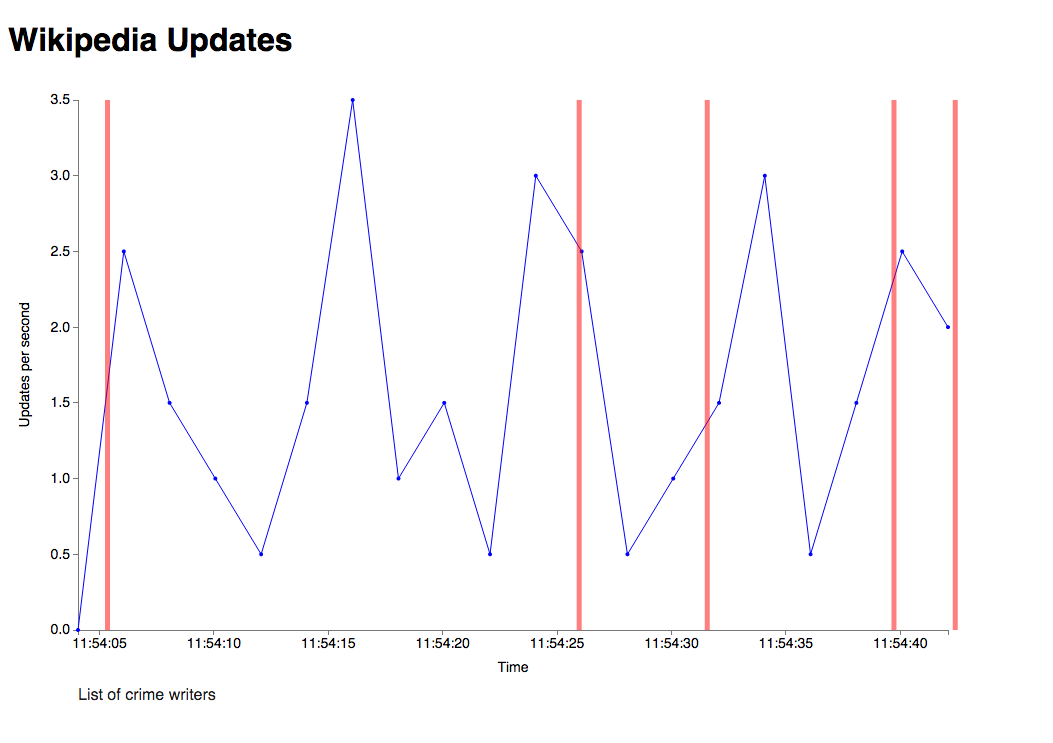
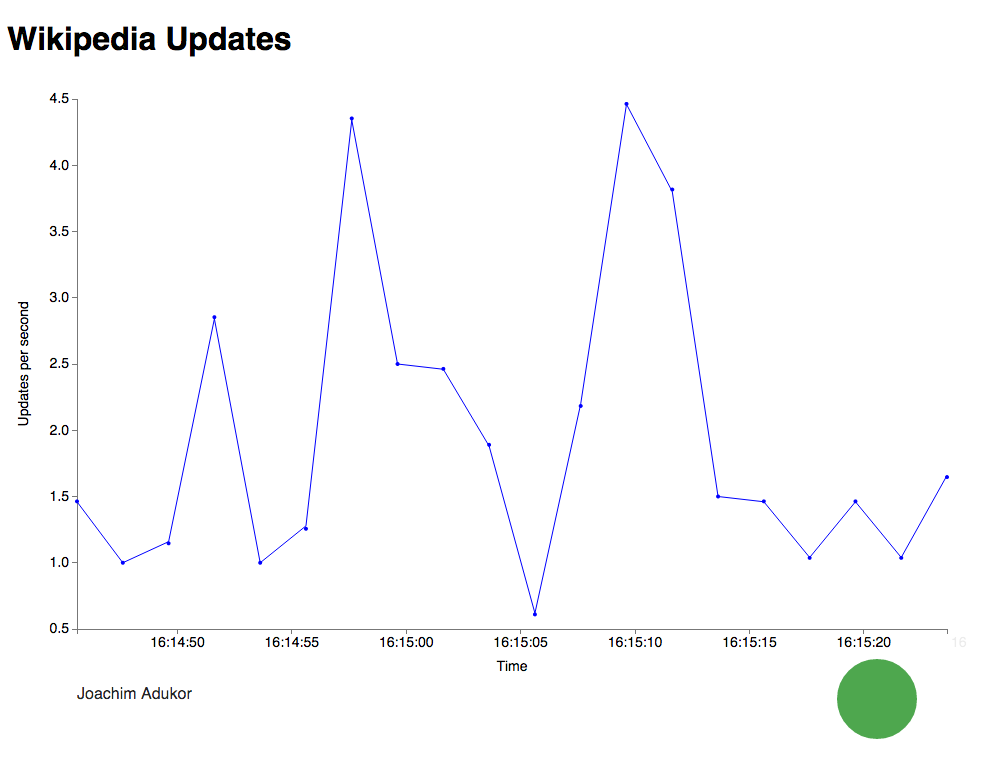
Updates code so that we display new users in a different way
The line annotations looked a bit naff, and it didn't seem worth the
effort in trying to make that kind of annotation look nicer - it felt like
it would be trying to force D3 to do something it's not designed for.
Instead, I now just fade in a circle below the chart to indicate a new
user event.

diff --git a/dgorst/_posts/2014-07-18-frp-with-bacon-and-d3.md b/dgorst/_posts/2014-07-18-frp-with-bacon-and-d3.md
@@ -139,7 +139,6 @@ As you can see, our HTML page is fairly minimal. It just contains the SVG elemen
 
 {% highlight javascript %}
 var updatesOverTime = [];
-var newUserTimes = [];
 
 var width = 960,
     height = 600,
@@ -218,19 +217,12 @@ Now that we have a line chart on our page, we need to define a function to updat
 {% highlight javascript %}
 var updateTransitionDuration = 550;
 
-function update(updates, newUsers) {
+function update(updates, newUser) {
     // Update the ranges of the chart to reflect the new data
     if (updates.length > 0)   {
         xRange.domain(d3.extent(updates, function(d) { return d.x; }));
         yRange.domain([d3.min(updates, function(d) { return d.y; }), 
-                        d3.max(updates, function(d) { return d.y; })]);
-    }
-    
-    // If the first new user event is now off the chart, remove it
-    var firstNewUserTime = newUsers[0];
-    var xAxisMin = xRange.domain()[0];
-    if (firstNewUserTime < xAxisMin) {
-        newUsers.shift();
+                       d3.max(updates, function(d) { return d.y; })]);
     }
     
     // Update the line series on the chart
@@ -261,34 +253,34 @@ function update(updates, newUsers) {
         .attr("cy", function(d) { return yRange(d.y); });
     
     var pointsExit = points.exit()
-        .transition()
-        .duration(updateTransitionDuration)
+        .transition().duration(updateTransitionDuration)
         .remove();
     
-    // For any new user events, render a translucent red line on the chart
-    var newUserLines = svg.selectAll("rect").data(newUsers);
-    var newUsersEnter = newUserLines.enter().append("rect")
-        .attr("width", 5)
-        .attr("fill-opacity", 1e-6)
-        .attr("fill", "red");
-    
-    var newUsersUpdate = newUserLines
+    var newUserIndicator = svg.selectAll("circle.new-user").data(newUser);
+    newUserIndicator.enter().append("circle")
+        .attr("class", "new-user")
+        .attr("r", 40)
+        .attr("fill", "green")
+        .attr("cx", width - margins.right - margins.left)
+        .attr("cy", height + 20)
+        .attr("opacity", 1e-6)
         .transition()
         .duration(updateTransitionDuration)
-        .attr("x", function(d) { return xRange(d); })
-        .attr("y", margins.top)
-        .attr("height", height - margins.bottom - margins.top)
-        .attr("fill-opacity", 0.5);
+        .attr("opacity", 0.75);
     
-    var newUsersExit = newUserLines.exit()
-        .transition().duration(updateTransitionDuration)    
+    newUserIndicator.exit()
+        .transition()
+        .duration(updateTransitionDuration)
+        .attr("cx", width - margins.right - margins.left)
+        .attr("cy", height + 20)
+        .attr("opacity", 1e-6)
         .remove();
 }
 {% endhighlight %}
 
-In the update method, we refresh the ranges of our axes to reflect the ranges of the new data. When we receive any new user events, we annotate the chart with a vertical line fixed at the time point when the new user event occurred. We bind the new user annotations to the *newUsers* variable we pass in, and we bind the line series to the *updates* variable which we pass in.
+In the update method, we refresh the ranges of our axes to reflect the ranges of the new data. When we receive any new user events, we show a circular indicator below the chart on the right hand side. We bind the line series to the *updates* variable which we pass in, and we bind the new user indicator to the *newUser* variable.
 
-To make the chart look prettier, we've drawn circles to represent the points on the line series. These are also bound to the *updates* variable. To make chart updates look nicer, we've defined transitions for update events in the chart. Rather than just jerking to its new state, we have defined a transition on the line series and its points. This means that they will animate nicely to their new positions when data changes. We've also defined a transition on the new user annotations. The annotations start off translucent as they are added to the chart, and then fade in.
+To make the chart look prettier, we've drawn circles to represent the points on the line series. These are also bound to the *updates* variable. To make chart updates look nicer, we've defined transitions for update events in the chart. Rather than just jerking to its new state, we have defined a transition on the line series and its points. This means that they will animate nicely to their new positions when data changes. We also fade the new user indicator in and out rather than just making it appear and disappear.
 
 Now that we have a function to update our chart when new data is received, let's make use of it in our functional pipeline. Let's the method we defined earlier which takes samples of update events, and update it to refresh our chart.
 
@@ -302,23 +294,23 @@ sampledUpdates.onValue(function(value) {
         updatesOverTime.shift();
     }
     totalUpdatesBeforeLastSample = value;
-    update(updatesOverTime, newUserTimes);
+    update(updatesOverTime, []);
     return value;
 });
 {% endhighlight %}
 
-Great, so now our chart will update each time we take a new sample. We define each value in the *updatesOverTime* array as an object with an x and a y value. We set the x value to be the time at which the sample is taken. We are taking a moving window view of our data - we use the 20 most recent samples and throw older data away. Notice that we're passing the *newUserTimes* variable into our *update* function, but we haven't populated it yet. Let's look at doing that now.
+Great, so now our chart will update each time we take a new sample. We define each value in the *updatesOverTime* array as an object with an x and a y value. We set the x value to be the time at which the sample is taken. We are taking a moving window view of our data - we use the 20 most recent samples and throw older data away. Notice that we're passing an empty array as the second argument into our *update* function - we are doing this to tell the chart to hide the new user indicator if it is displaying. We should also tell the chart to display the indicator when a new user is recieved - let's look at doing that now.
 
 Earlier we defined an event stream to filter out new user events from the main stream. Let's update that to refresh our chart instead of logging to the console.
 
 {% highlight javascript %}
 newUserStream.onValue(function(results) {
     newUserTimes.push(new Date());
-    update(updatesOverTime, newUserTimes);
+    update(updatesOverTime, ["newuser"]);
 });
 {% endhighlight %}
 
-So now we refresh our chart in response to 2 types of events - either when we take a new sample of the rate of updates, or when a new user event is received.
+So now we refresh our chart in response to 2 types of events - either when we take a new sample of the rate of updates, or when a new user event is received. The data we're sending as the second argument to the chart when we receive a new user event is a little contrived, but it allows the chart to update and it gives the chart something to bind to. We don't receive any information on the new user which was created, so for now we just tell the chart that there was one.
 
 Finally, it would be interesting to see the subjects which are being edited in Wikipedia as well as seeing the rate of updates. To do this, we shall add a text element below our chart. In our Javascript, we can add a text element below the code where we create our line chart.
 
